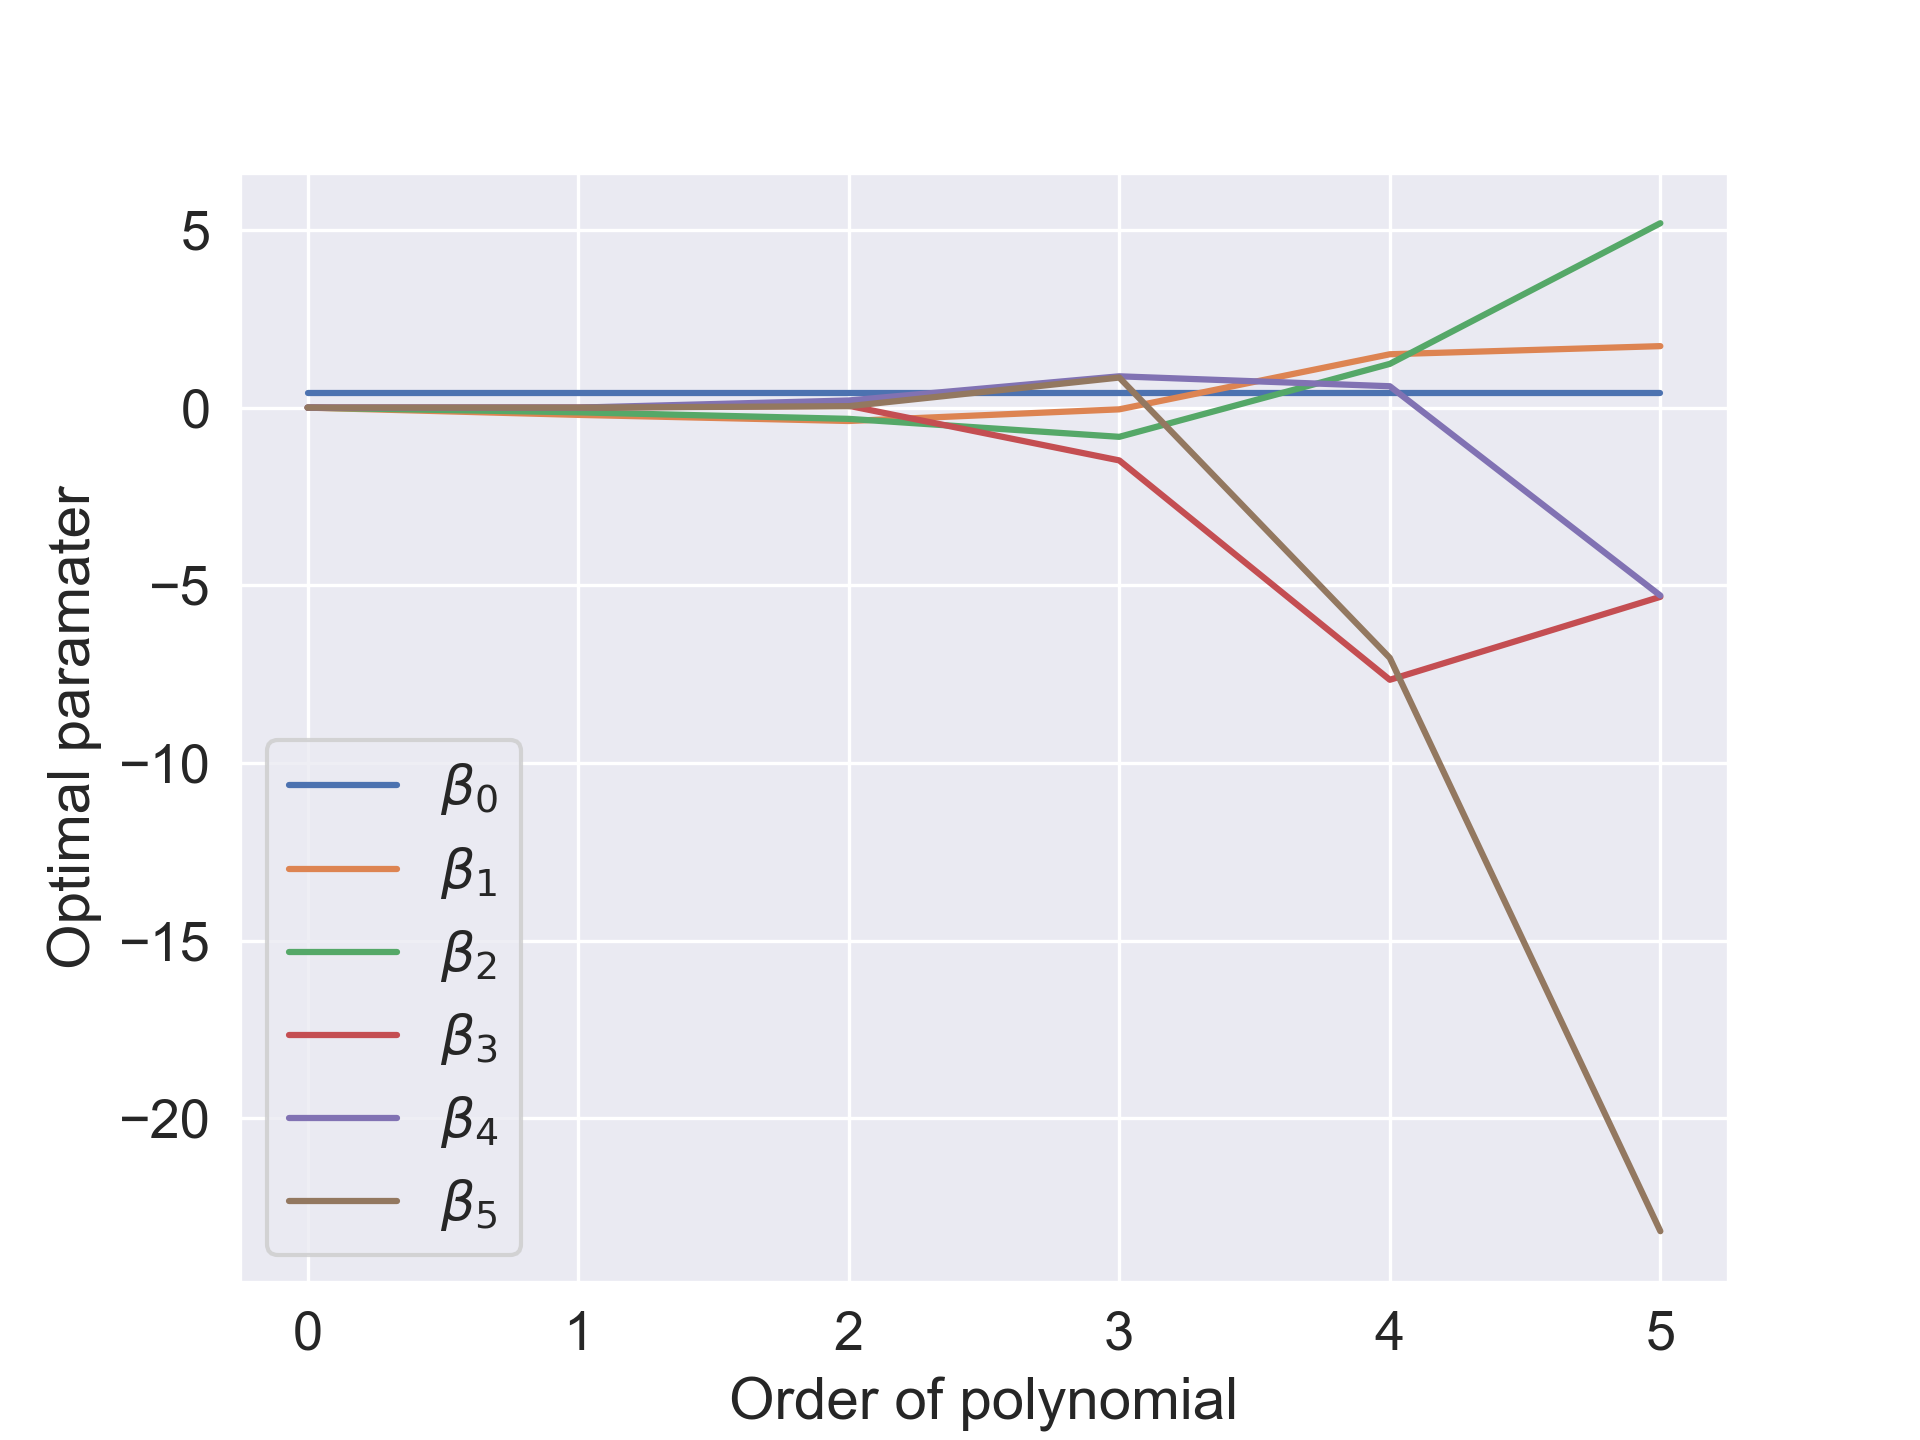
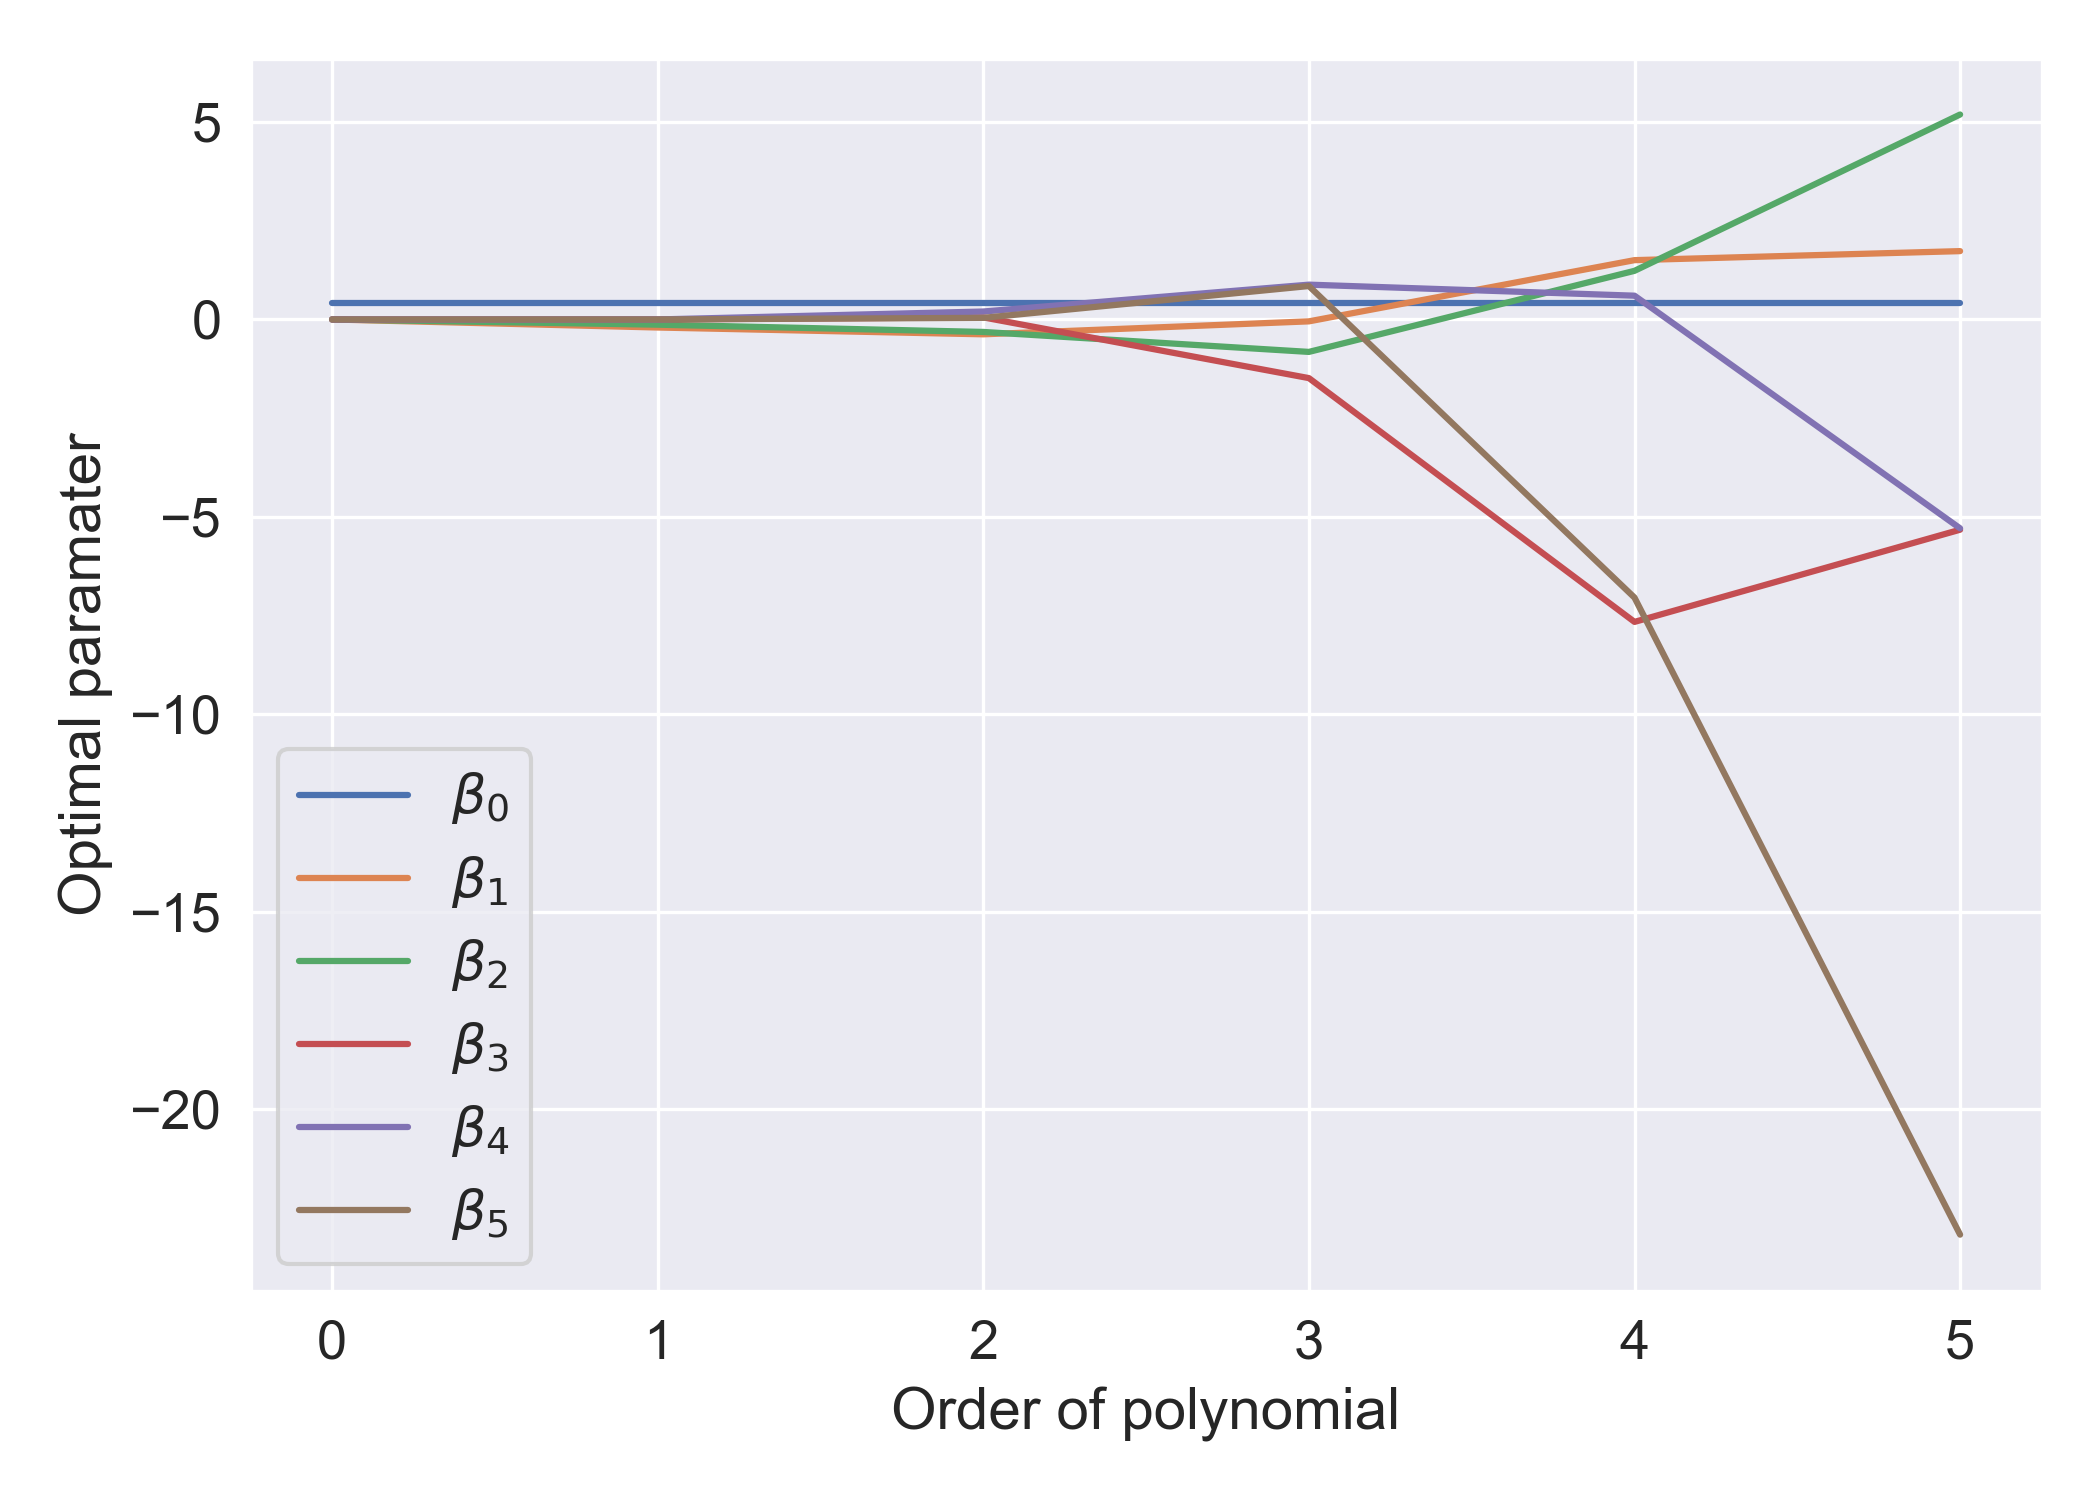
Plots

diff --git a/PROJECT1/main.py b/PROJECT1/main.py
@@ -22,6 +22,34 @@ def generate_reults():
     x_, y_ = np.meshgrid(x__,y__)
     z_ = (utils.FrankeFunction(x_, y_) + 0.1*np.random.randn(Nx_,Ny_)).reshape(-1,1)
 
+    """
+    #1 MSE AND R2 SCORES AS FUNCTION OF THE POLYNOMIAL DEGREE, OLS
+    list_train = []
+    test = []
+    degrees_list, MSE_train_list, MSE_test_list, _, _, _, R2_train_list, R2_test_list \
+    = Solver(x_, y_, z_, Nx_, Ny_, OLS, lamb = 0, useBootstrap=False, useCrossval=False, maxdegree = maxdeg)
+    plotfnc.MSE_R2_plot(degrees_list, MSE_train_list, MSE_test_list, R2_train_list, R2_test_list, savefig = True)
+    """
+
+    """
+    # (2) BETA PARAMETERS, AS FUNCTION OF POLYDEG, OLS
+    #Betamatrix plot
+    deg_toplot = 6
+    nr_of_betas = 6
+    degrees_list, MSE_train_list, MSE_test_list, bias, variance, beta_matrix, _, _ = Solver(x_, y_, z_, Nx_, Ny_, OLS, useBootstrap=False, useCrossval=False, lamb=0.0001, maxdegree = maxdeg)
+    plotfnc.betaval_plot(degrees_list, beta_matrix, nr_of_betas, maxdeg = deg_toplot, title = f"Betavalues_{nr_of_betas}", savefig = True)
+    plt.show()
+    """
+
+    #(3) Bias-variance tradeoff, AS FUNCTION OF POLYDEG USING ONLY BOOTSTRAP, and only OLS
+    maxdeg_ = 10
+    degrees_list, MSE_train_list, MSE_test_list, bias, variance, beta_matrix, R2_train_list, R2_test_list \
+    = Solver(x_, y_, z_, Nx_, Ny_, OLS, lamb = 0, useBootstrap=True, useCrossval=False, maxdegree = maxdeg_)
+    plotfnc.bias_var_plot(degrees_list, bias, variance, MSE_test_list,  savefig = True)
+    plt.show()
+
+
+    """
     #methods = [OLS]
     MSE_list_train = []
     MSE_list_test = []
@@ -36,6 +64,7 @@ def generate_reults():
 
     plotfnc.MSE_plot(degrees_list, MSE_list_train, MSE_list_test, titles_ = titles, savefig = True)
     plt.show()
+    """
 
     """
     #Bias var plot example
@@ -44,14 +73,7 @@ def generate_reults():
     plt.show()
     """
 
-    """
-    #Betamatrix plot
-    deg_toplot = 6
-    nr_of_betas = 6
-    degrees_list, MSE_train_list, MSE_test_list, bias, variance, beta_matrix, _, _ = Solver(x_, y_, z_, Nx_, Ny_, OLS, useBootstrap=False, useCrossval=False, lamb=0.0001, maxdegree = maxdeg)
-    plotfnc.betaval_plot(degrees_list, beta_matrix, nr_of_betas, maxdeg = deg_toplot, title = f"Betavalues_{nr_of_betas}", savefig = True)
-    plt.show()
-    """
+
 
     #Attempt to show frankie func which dont look too good
     #plotfnc.function_plot(x_, y_, z__)

diff --git a/PROJECT1/plotting_functions.py b/PROJECT1/plotting_functions.py
@@ -52,6 +52,28 @@ def MSE_plot(degrees_list, MSE_train_list, MSE_test_list, mindegree= 0, titles_ 
         plt.savefig(f"{path}/{len(MSE_train_list)}.png", dpi = 300)
     return
 
+
+def MSE_R2_plot(degrees_list, MSE_train_list, MSE_test_list, R2_train_list, R2_test_list, savefig = False, path = "./Plots/MSER2"):
+    fig, axs = plt.subplots(nrows = 1, ncols = 2, sharey = False, tight_layout=True, figsize=(7*2,5))
+    plt.gca().set_ylim(bottom=0)
+    pathlib.Path(path).mkdir(parents=True, exist_ok=True)
+    #axs.autoscale(enable=True, axis="y", tight=False)
+    axs[0].plot(degrees_list, MSE_train_list, label = "Train", color = colorpal[0])
+    axs[0].plot(degrees_list, MSE_test_list, label = "Test", color = colorpal[1])
+    axs[1].plot(degrees_list, R2_train_list, label = "Train", color = colorpal[0])
+    axs[1].plot(degrees_list, R2_test_list, label = "Test", color = colorpal[1])
+    axs[0].title.set_text(f"MSE")
+    axs[1].title.set_text(f"R2")
+    for i in range(2):
+        axs[i].set_xlabel("Order of polynomial")
+        axs[i].legend()
+    axs[0].set_ylabel("MSE Error")
+    axs[1].set_ylabel("R2 Error")
+    plt.grid(True)
+    if savefig:
+        plt.savefig(f"{path}/MSER2_OLS.png", dpi = 300)
+    return
+
 def bias_var_plot(degrees_list, bias, variance, MSE_test_list, title = "BiasVar", savefig = False, path = "./Plots/BiasVar"):
     pathlib.Path(path).mkdir(parents=True, exist_ok=True)
     plt.figure(figsize=(7,5), tight_layout=True)
@@ -68,6 +90,7 @@ def bias_var_plot(degrees_list, bias, variance, MSE_test_list, title = "BiasVar"
     return
 
 def betaval_plot(degrees_list, beta_mat, nr_ofbeta, maxdeg, title = "Betavalues", savefig = False, path = "./Plots/Betamatrix"):
+    plt.figure(figsize=(7,5), tight_layout=True)
     pathlib.Path(path).mkdir(parents=True, exist_ok=True)
     for i in range(nr_ofbeta):
     	plt.plot(degrees_list[:maxdeg], beta_mat[i,:maxdeg], label=f"$\\beta_{i}$", color = colorpal[i])
